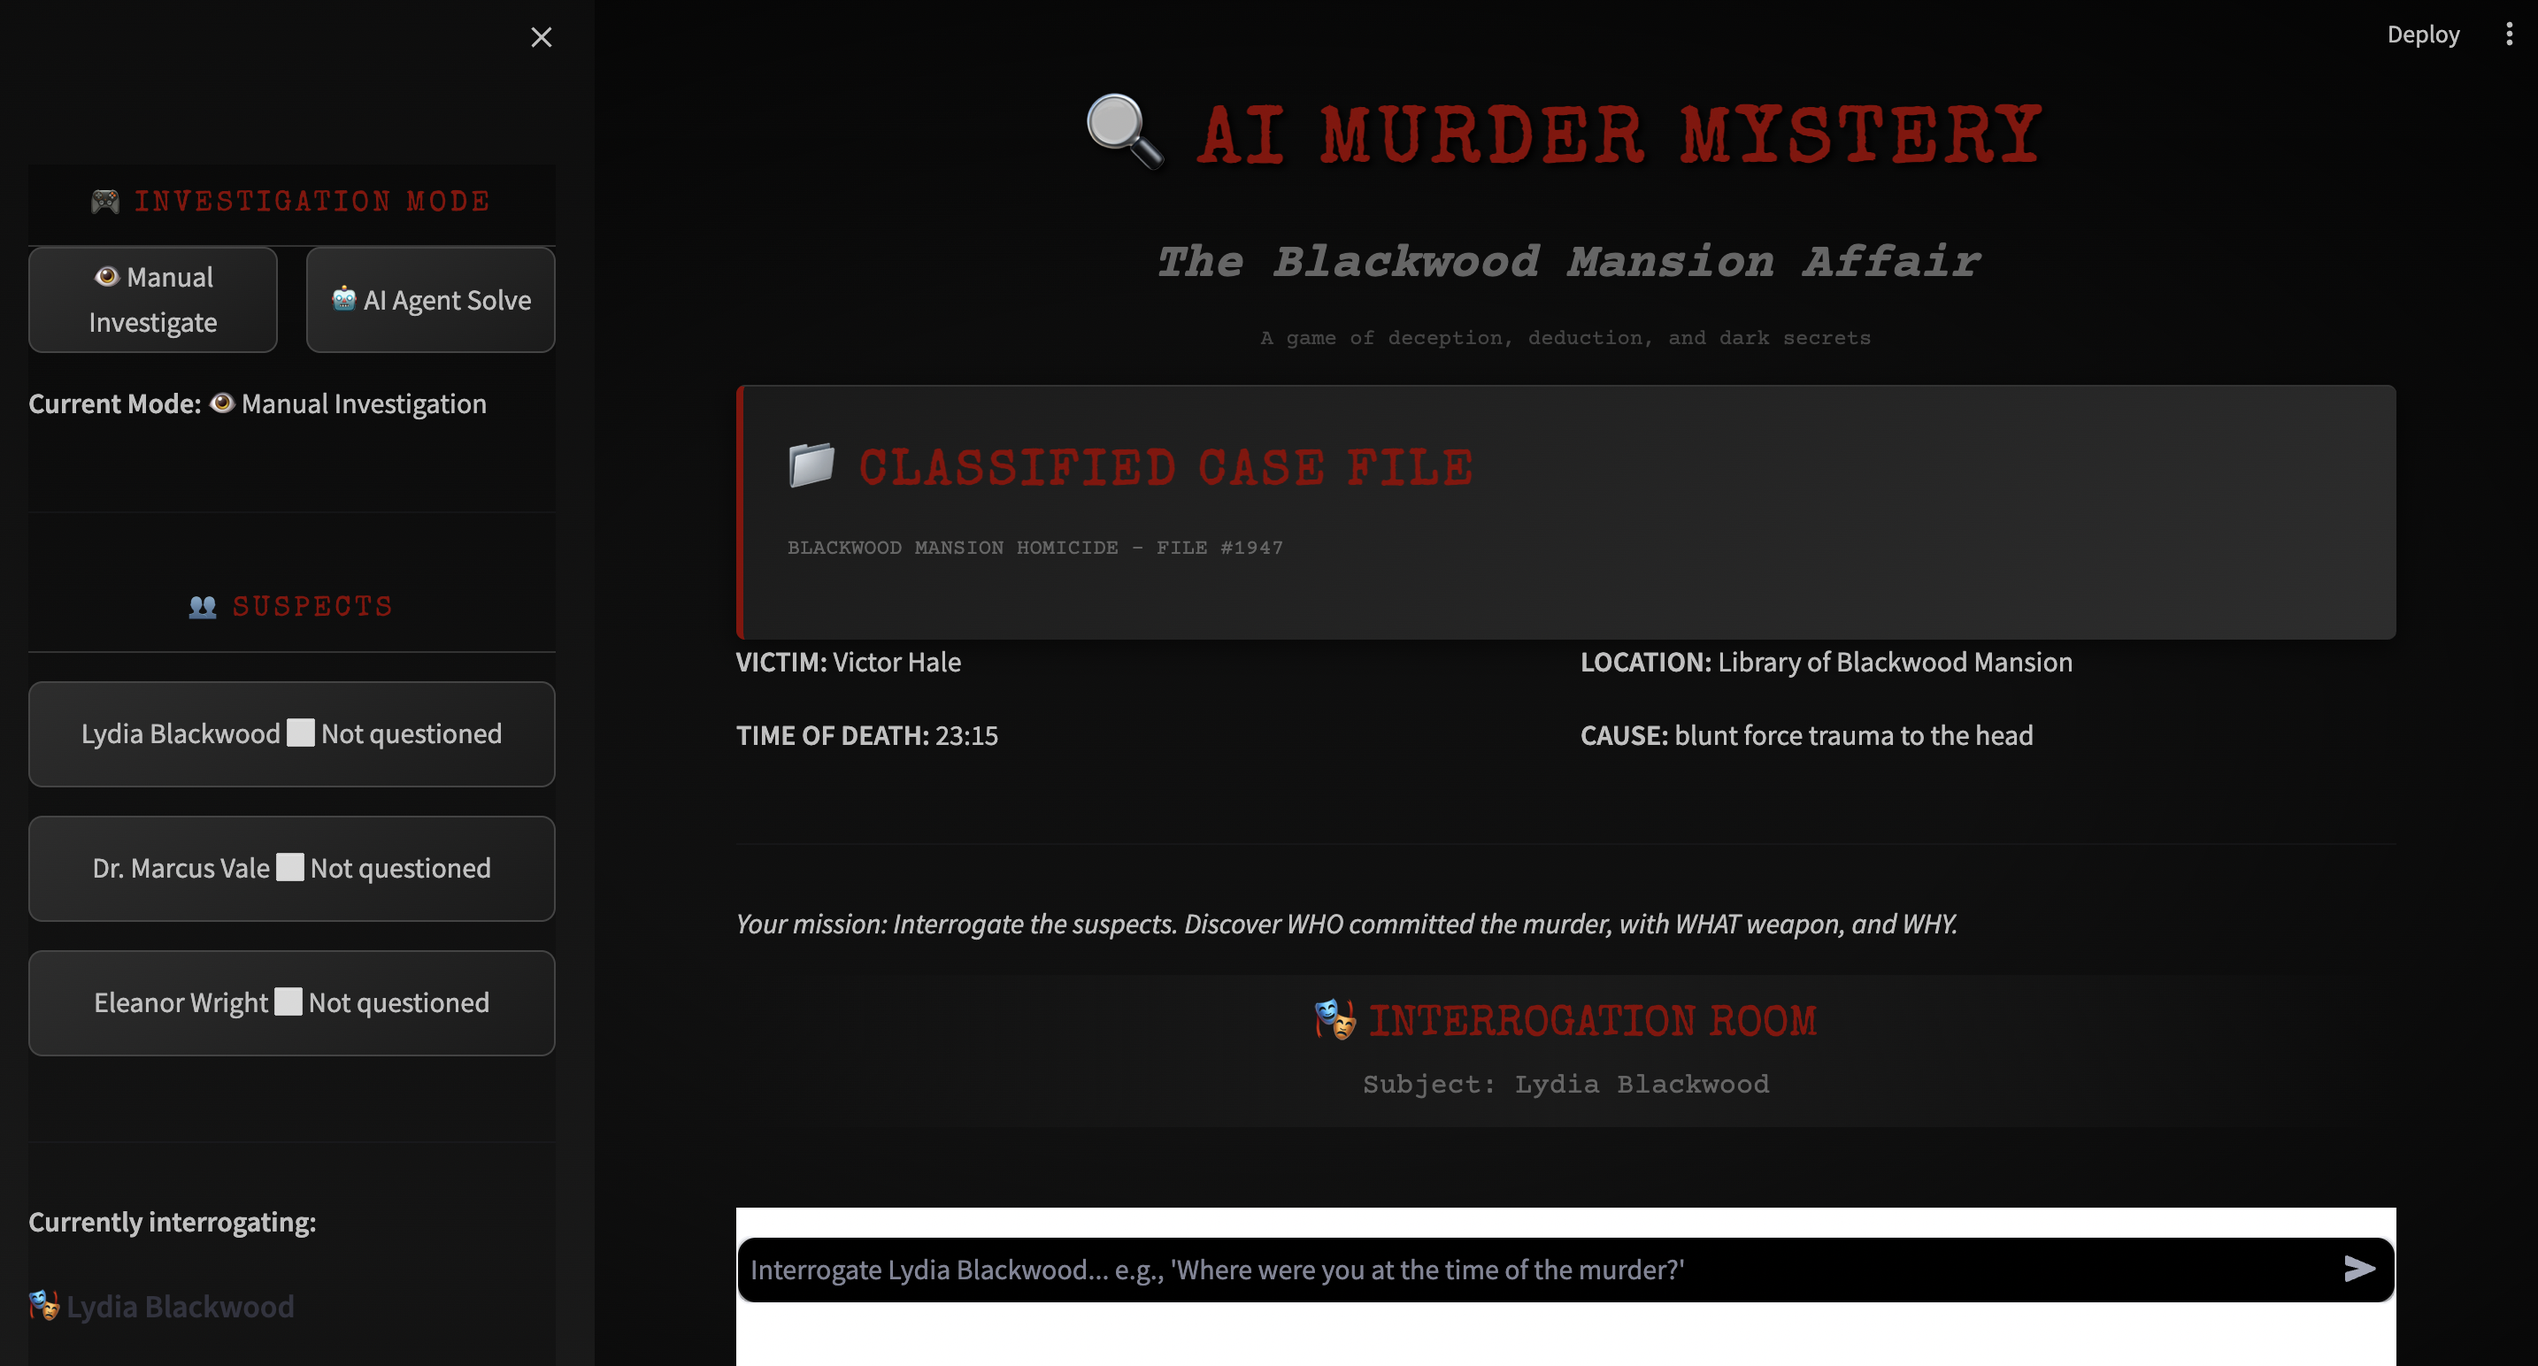
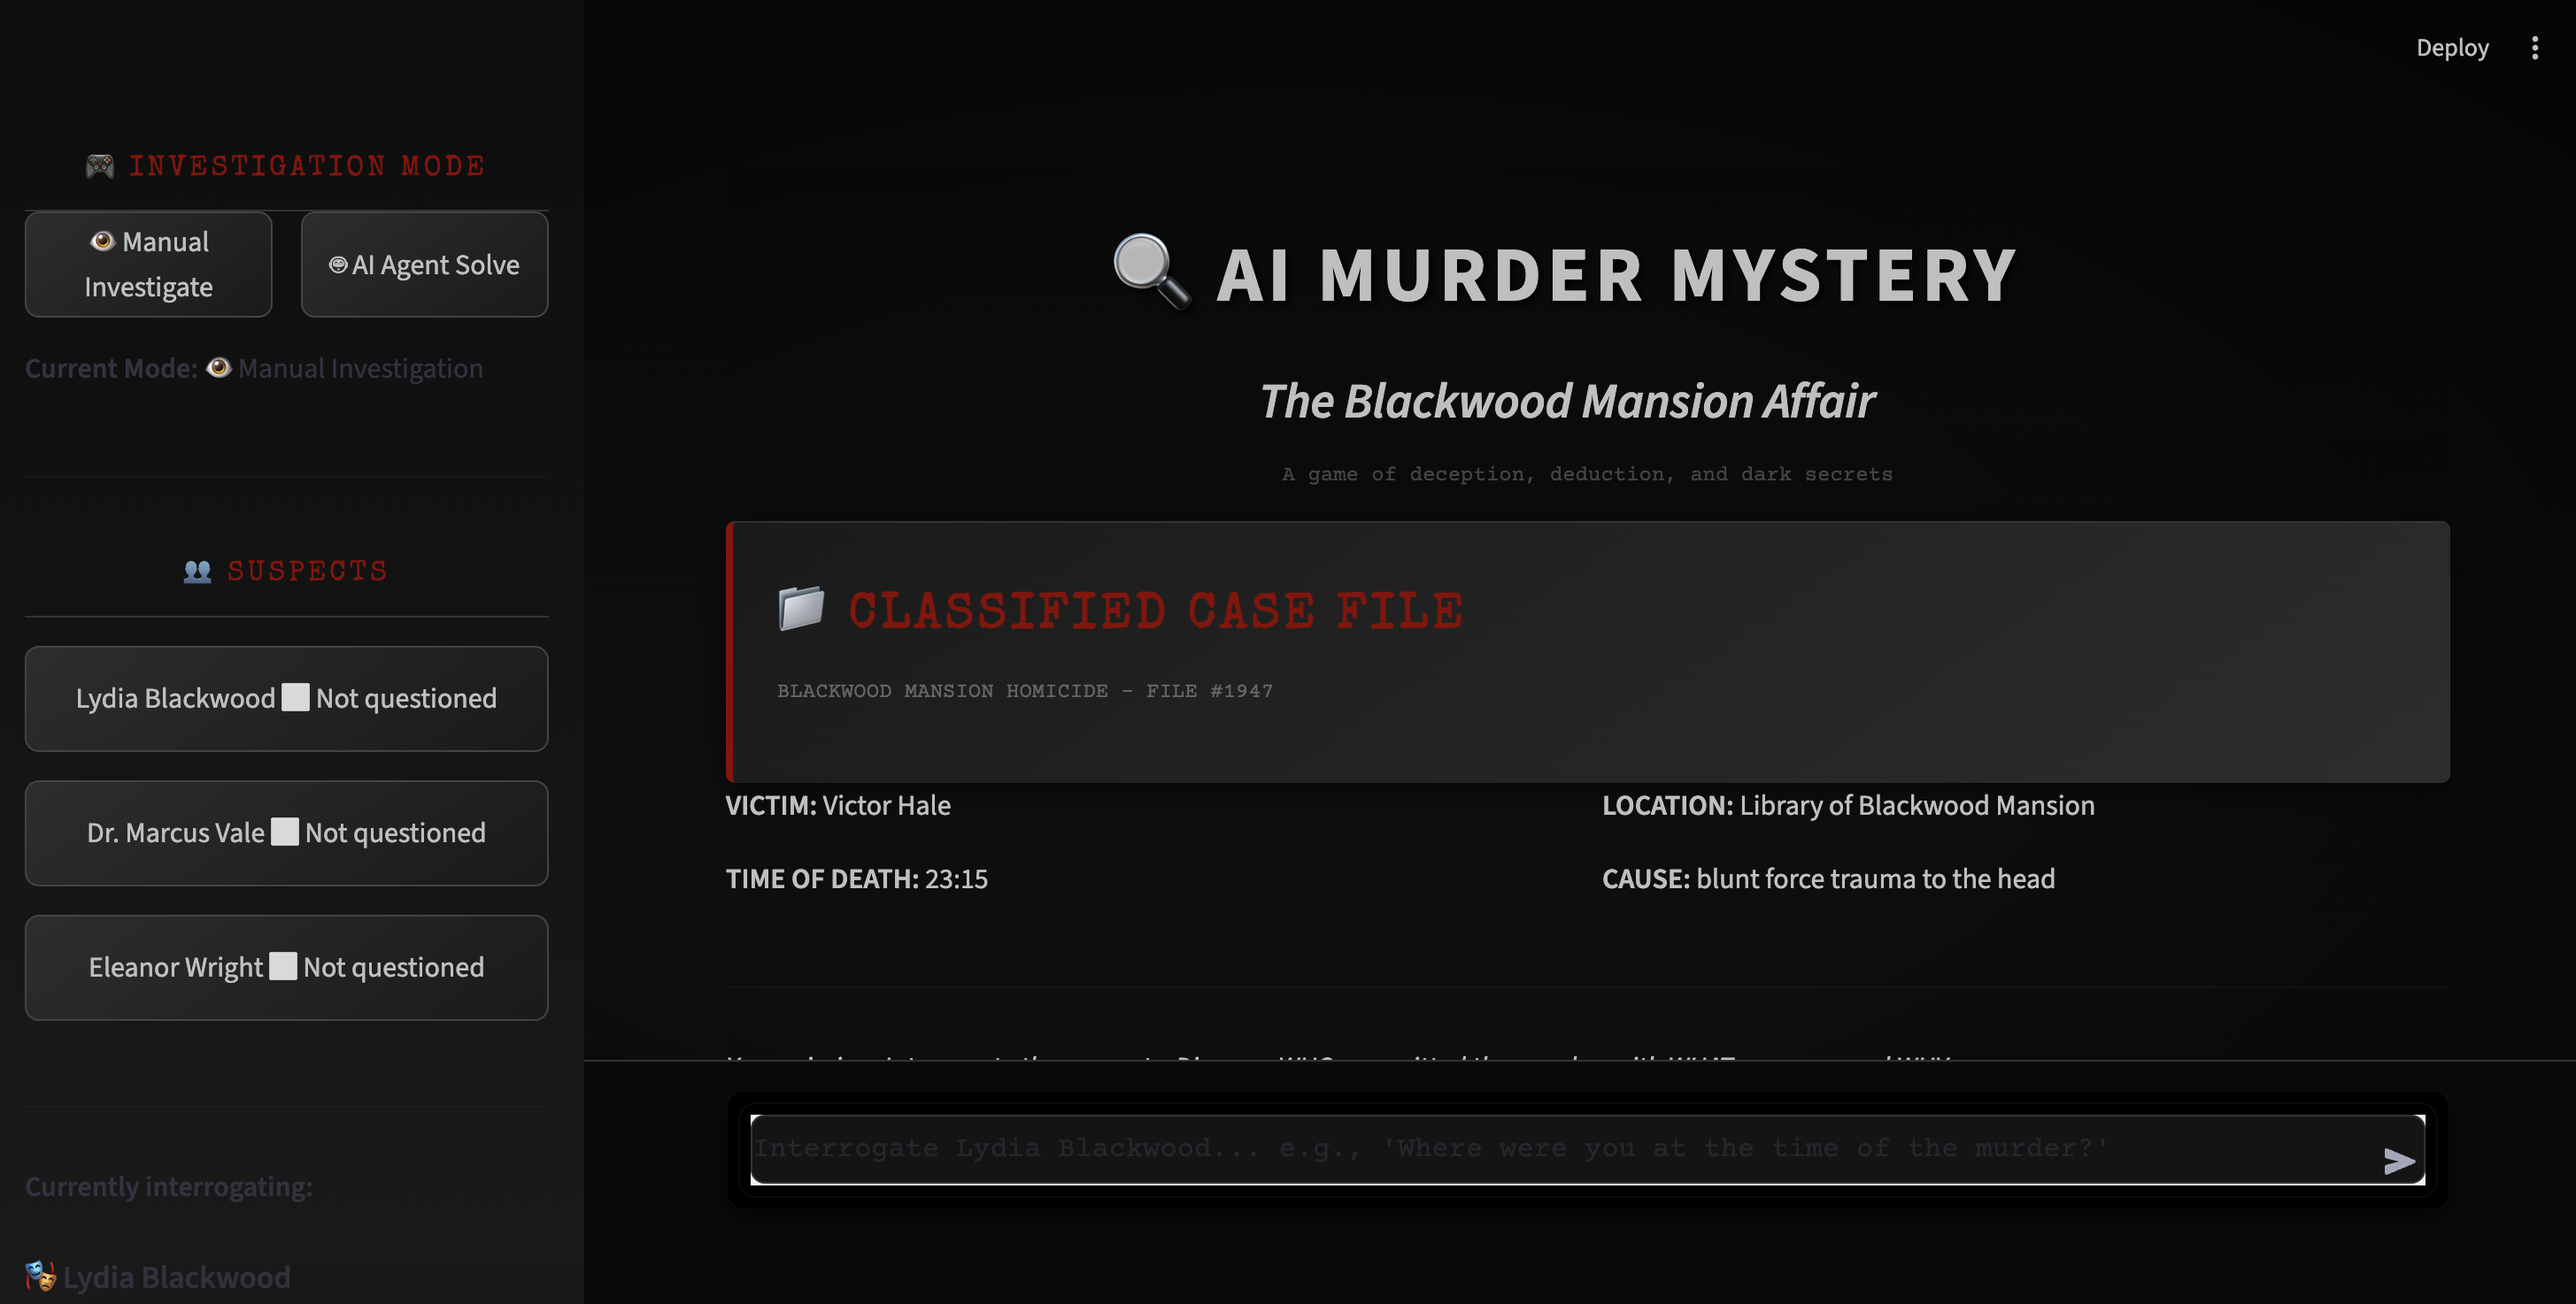
black box fix and read me fix

diff --git a/app.py b/app.py
@@ -253,6 +253,16 @@ st.markdown("""
         color: #c0c0c0 !important;
     }
 
+    /* Targets the sticky container at the bottom */
+    [data-testid="stBottom"] {
+        background-color: #0a0a0a !important;
+    }
+    
+    [data-testid="stBottomBlockContainer"] {
+        background-color: #0a0a0a !important;
+        border-top: 1px solid #333 !important;
+    }
+
     /* Catch-all for Streamlit autogenerated panel classes that may render white backgrounds */
     [class^="css-"] {
         background-repeat: no-repeat !important;
